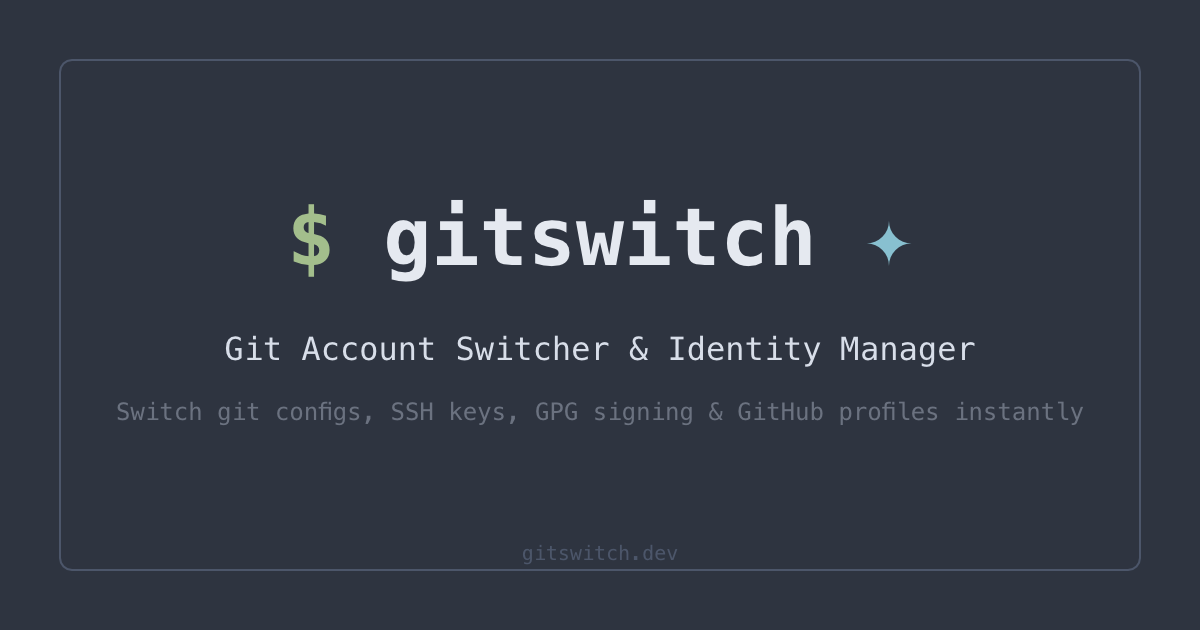
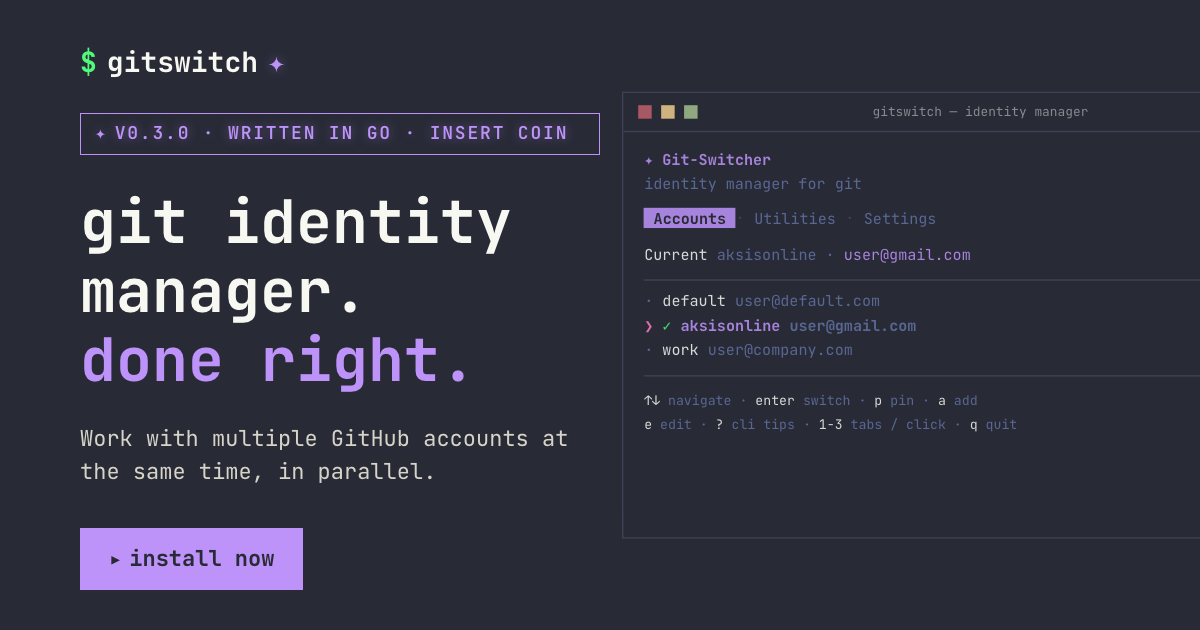
feat: overhaul OG image and metadata for parallel-accounts/agents positioning
- New OG image: purpose-built render of the current design (headline,
  single CTA, TUI showcasing the profile list) in Dracula, rather than a
  raw screenshot of the interactive hero — no view-source button or
  install-tabs chrome that don't make sense in a static image.
- Meta title/description/OG/Twitter/JSON-LD (single DESC constant) now
  lead with running multiple GitHub accounts in parallel, and call out
  that it's built for developers and AI coding agents alike.
- llms.txt: the top summary blurb never mentioned the parallel-accounts
  angle or agent use at all despite being the first thing AI answer
  engines read; added both, plus a missing Session Isolation bullet in
  the features list.
- manifest.json was untouched TanStack scaffolding ("Create TanStack App
  Sample", black/white theme colors) and its PWA icons (logo192/512.png)
  were literally the default React logo. Fixed the metadata and
  regenerated the icons from the actual favicon.svg mark.

diff --git a/src/routes/__root.tsx b/src/routes/__root.tsx
@@ -10,7 +10,9 @@ import appCss from '#/styles.css?url'
 
 const TITLE = 'gitswitch — Run Multiple GitHub Accounts in Parallel'
 const DESC =
-  'The only tool that lets you run multiple GitHub accounts in parallel on the same machine — one identity per terminal, zero config fights. Also handles SSH keys and GPG signing.'
+  'Run multiple GitHub accounts in parallel on one machine — for developers and AI coding agents alike. One command handles identity, SSH keys, and GPG signing.'
+const OG_IMAGE_ALT =
+  'gitswitch terminal UI in the Dracula theme, showing the profile list next to the "git identity manager. done right." hero headline'
 
 const softwareSchema = {
   '@context': 'https://schema.org',
@@ -48,10 +50,12 @@ export const Route = createRootRoute({
       { property: 'og:image:width', content: '1200' },
       { property: 'og:image:height', content: '630' },
       { property: 'og:image:type', content: 'image/png' },
+      { property: 'og:image:alt', content: OG_IMAGE_ALT },
       { name: 'twitter:card', content: 'summary_large_image' },
       { name: 'twitter:title', content: TITLE },
       { name: 'twitter:description', content: DESC },
       { name: 'twitter:image', content: 'https://gitswitch.dev/og-image.png' },
+      { name: 'twitter:image:alt', content: OG_IMAGE_ALT },
     ],
     links: [
       { rel: 'stylesheet', href: appCss },
